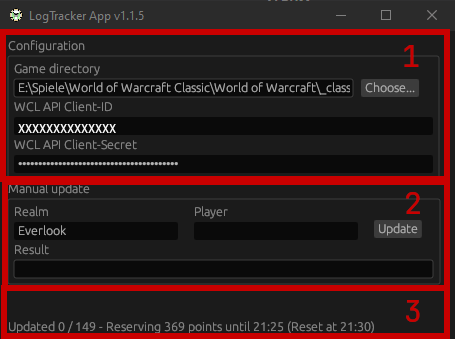
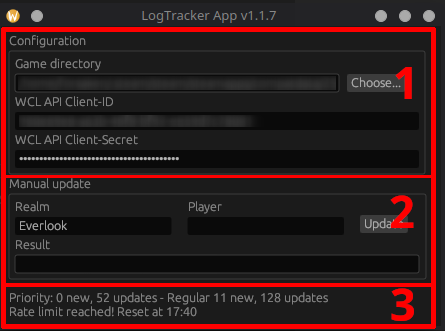
Improved prioritized update queue - Added option to only update prioritized players (configured in addon) - Added better status display to judge current progress by priority - Documented suggested workflow for group finder

Changed region(s): [[0.0, 0.0302, 0.9933, 1.0], [0.409, 0.6042, 0.4966, 0.6647]]

diff --git a/src/updater.rs b/src/updater.rs
@@ -195,6 +195,7 @@ pub struct Updater {
     update_addon: SystemTime,
     update_queue: Vec<UpdaterPlayer>,
     update_queue_pos: usize,
+    update_priority_only: bool,
     wcl_token: String,
     wcl_points_used: f64,
     wcl_points_limit: f64,
@@ -212,6 +213,7 @@ impl Updater {
             update_addon: SystemTime::UNIX_EPOCH,
             update_queue: Vec::new(),
             update_queue_pos: 0,
+            update_priority_only: false,
             wcl_token: Default::default(),
             wcl_points_used: Default::default(),
             wcl_points_limit: Default::default(),
@@ -323,6 +325,9 @@ impl Updater {
                                 player.last_update_logs = player_updated_logs;
                                 player.last_update_addon = player_updated;
                             }
+                        }
+                        if let Ok(update_priority_only) = data.get("appPriorityOnly") {
+                            self.update_priority_only = update_priority_only;
                         }
                     }
                 }
@@ -471,6 +476,29 @@ impl Updater {
             .expect("Failed to write player data");
     }
 
+    pub fn refresh_queue_status(&self) -> (i32, i32, i32, i32) {
+        let mut update_queue_counts = (0, 0, 0, 0);
+        let update_start = self.update_queue_pos;
+        let update_count = self.update_queue.len();
+        for update_index in update_start..update_count {
+            let player_details = self.update_queue.get(update_index).unwrap();
+            if player_details.last_update_logs == 0 {
+                if player_details.priority > 4 {
+                    update_queue_counts.0 += 1; // Prio new
+                } else {
+                    update_queue_counts.1 += 1; // Regular new
+                }
+            } else {
+                if player_details.priority > 4 {
+                    update_queue_counts.2 += 1; // Prio update
+                } else {
+                    update_queue_counts.3 += 1; // Regular update
+                }
+            }
+        }
+        update_queue_counts
+    }
+
     pub fn rewrite_update_queue(&mut self) {
         let now = i64::try_from(SystemTime::now().duration_since(SystemTime::UNIX_EPOCH).unwrap().as_secs()).unwrap();
         self.update_queue_pos = 0;
@@ -481,6 +509,12 @@ impl Updater {
                 let (_player_name, player_details) = pair_player;
                 if (player_details.level > 0) && (player_details.level < 80) {
                     continue; // Skip non-80 players
+                }
+                if player_details.class == 0 {
+                    continue; // Skip players with unknown class
+                }
+                if self.update_priority_only && (player_details.priority == 0) {
+                    continue; // Only update prioritized players
                 }
                 let last_seen = now - player_details.last_update;
                 let last_updated = now - player_details.last_update_logs;
@@ -586,23 +620,30 @@ impl Updater {
             let wcl_points_left = self.wcl_points_limit - self.wcl_points_used;
             let wcl_reserve_time = self.wcl_reset_at - Duration::new(300, 0);
             if (wcl_points_left < 600.0) && (SystemTime::now() < wcl_reserve_time) {
+                let (prio_new, prio_update, new, update) = self.refresh_queue_status();
                 self.modify_gui_data(false, |gui_data| {
                     let points_reserve_dt: DateTime<Local> = wcl_reserve_time.into();
                     let points_reset_dt: DateTime<Local> = self.wcl_reset_at.into();
-                    let status_text = format!("Updated {} / {} - Reserving {} points until {} (Reset at {})",
+                    let status_text = format!(
+                        "Priority: {} new, {} updates - Regular {} new, {} updates\nUpdated {} / {} - Reserving {} points until {} (Reset at {})",
+                        prio_new, prio_update, new, update,
                         self.update_queue_pos, update_count, wcl_points_left.round(), points_reserve_dt.format("%R"), points_reset_dt.format("%R")
                     );
                     info!("Status: {}", status_text);
                     gui_data.status_text = status_text;
                 });
+                self.update_gui();
                 return false;
             }
         }
         self.update_queue_pos += 1;
         let player = self.update_queue.get(update_index).unwrap();
+        let (prio_new, prio_update, new, update) = self.refresh_queue_status();
         if self.update_player(player.clone()) {
             self.modify_gui_data(false, |gui_data| {
-                let status_text = format!("Updated {} / {} ({} / {} points used)",
+                let status_text = format!(
+                    "Priority: {} new, {} updates - Regular {} new, {} updates\nUpdated {} / {} ({} / {} points used)",
+                    prio_new, prio_update, new, update,
                     self.update_queue_pos, update_count, self.wcl_points_used.round(), self.wcl_points_limit.round()
                 );
                 info!("Status: {}", status_text);
@@ -614,8 +655,15 @@ impl Updater {
             self.modify_gui_data(false, |gui_data| {
                 let points_reset_dt: DateTime<Local> = self.wcl_reset_at.into();
                 let status_text = match self.wcl_points_limit {
-                    x if x == 0.0 => format!("Rate limit reached! Reset time is unknown"),
-                    _ => format!("Rate limit reached! Reset at {}", points_reset_dt.format("%R"))
+                    x if x == 0.0 => format!(
+                        "Priority: {} new, {} updates - Regular {} new, {} updates\nRate limit reached! Reset time is unknown",
+                        prio_new, prio_update, new, update
+                    ),
+                    _ => format!(
+                        "Priority: {} new, {} updates - Regular {} new, {} updates\nRate limit reached! Reset at {}", 
+                        prio_new, prio_update, new, update,
+                        points_reset_dt.format("%R")
+                    )
                 };
                 info!("Status: {}", status_text);
                 gui_data.status_text = status_text;

diff --git a/src/main.rs b/src/main.rs
@@ -55,7 +55,7 @@ impl LogTrackerApp {
                 updater_thread.lock().unwrap().update_addon();
                 if !updater_thread.lock().unwrap().is_update_possible() {
                     {
-                        let status_text = format!("Update completed.");
+                        let status_text = format!("\nUpdate completed.");
                         gui_data.lock().unwrap().status_text = status_text;
                         updater_thread.lock().unwrap().update_gui();
                     }
@@ -113,7 +113,7 @@ impl eframe::App for LogTrackerApp {
             }
             let panel_width = ui.available_width();
             ui.vertical(|ui| {
-                ui.set_height( ui.available_height() - 15.0 );
+                ui.set_height( ui.available_height() - 30.0 );
                 ui.label("Configuration");
                 ui.group(|ui| {
                     ui.label("Game directory");
@@ -206,8 +206,8 @@ fn main() -> Result<(), eframe::Error> {
     let icon = image::load_from_memory(ICON).unwrap().to_rgba8();
     let (icon_width, icon_height) = icon.dimensions();
     let options = eframe::NativeOptions {
-        initial_window_size: Some(egui::vec2(400.0, 300.0)),
-        min_window_size: Some(egui::vec2(400.0, 300.0)),
+        initial_window_size: Some(egui::vec2(440.0, 300.0)),
+        min_window_size: Some(egui::vec2(440.0, 300.0)),
         icon_data: Some(eframe::IconData {
             rgba: icon.into_raw(),
             width: icon_width,

diff --git a/README.md b/README.md
@@ -39,6 +39,8 @@ Upon login/zone change the Addon will clearly communicate ownership of the data 
 2. Section
 	+ Here you can manually update a player if you want to. Just enter the realm and name and click the "Update" button.
 3. Section
+    + Priority / Regular
+        + This shows the number of pending updates for the regular- and priority-queue
     + Update X/X
         + This shows the current queue of player to be updated.
     + Reserving X
@@ -54,6 +56,30 @@ The addon adds players it meets in-game to a list. Then application then takes t
 Then the information is fed back to the addon.
 
 The addon then displays the information in-game. The addon also distributes this information to others with the same addon.
+
+**Group Finder usage**
+---
+The addon integrates into the group finder and will automatically prioritize updating listed players.
+You can also limit the addon to only update those + members of your guild / raid-groups with the "Only perform prioritized updates via App" option. (Escape > Interface > Addons > LogTracker)
+
+The usual workflow is the following:
+- Open the Group Finder and select the desired raid(s)
+- Wait a few seconds and `/reload` your interface
+- Wait until the priority updates in the app are done (See **Screenshot 1** below)
+- `/reload` your interface again
+- Open the Group Finder again (if you are not listed, you also have to select the raid(s) again)
+- Repeat as nescessary (As seen in **Screenshot 2** below, you can judge this by the status report within the group finder)
+
+This approach, while certainly not perfect, allows a more efficient use of the available API quota.
+Especially if your server don't have a lot of players running the app, this will be a lot more useful in the short term.
+
+ **Screenshot 1**
+
+![Update status within the app](https://github.com/ForsakenNGS/LogTrackerApp/blob/master/doc_resources/images/app/LogTrackerApp_2.PNG?raw=true)
+
+ **Screenshot 2**
+
+![Queue prediction in-game](https://github.com/ForsakenNGS/LogTrackerApp/blob/master/doc_resources/images/game/GroupFinder_1.PNG?raw=true)
 
 **WarcraftLogs API**
 ---
